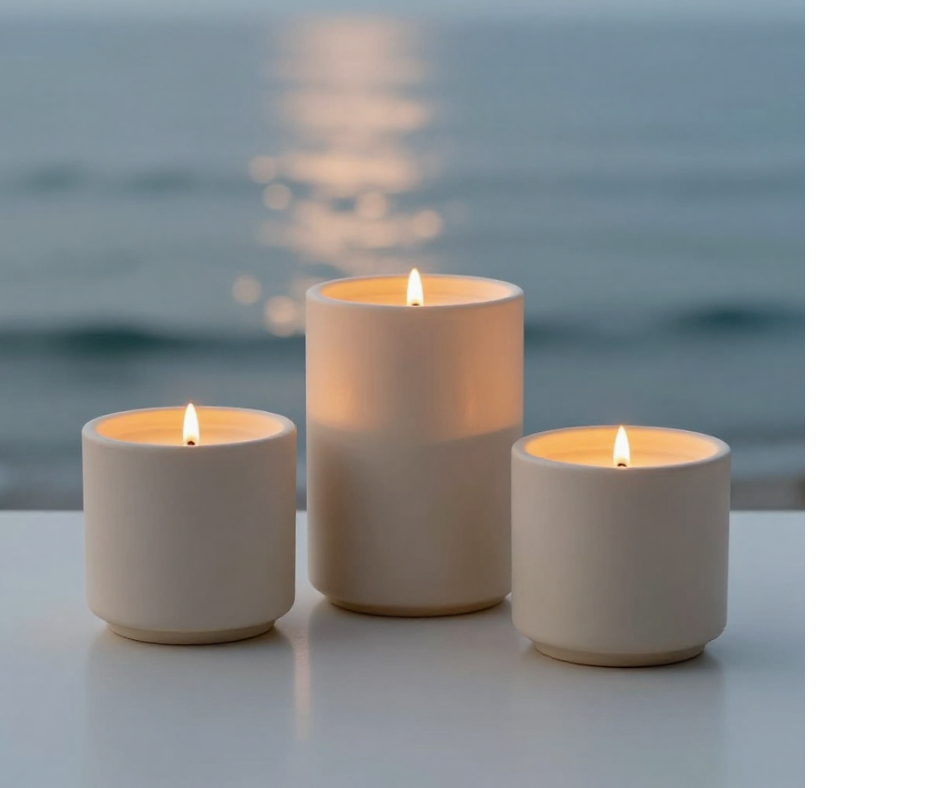
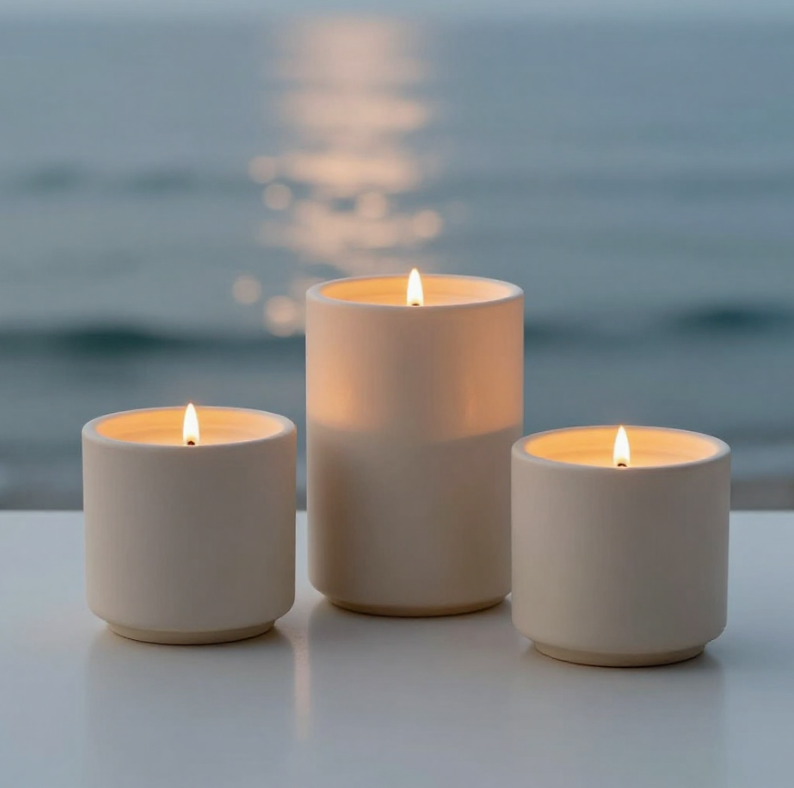
working on footer

diff --git a/src/styles.css b/src/styles.css
@@ -504,22 +504,17 @@ header {
 
   height: 100vh;
 
-  background-attachment: 50%;
-
-  width: 120vw;
-
   position: relative;
-
-  background-size: 100%;
+  max-width: 100vw;
+  background-size: cover;
 
   background-repeat: no-repeat;
 
   background-position: center;
 
   background-image:
-   
     linear-gradient(rgba(0, 0, 0, 0.1), rgba(0, 0, 0, 0), rgba(0, 0, 0, 0.1)),
-    url(../media/background3.png) ;
+    url(../media/background3.png);
 
   margin-bottom: 40vh;
 
@@ -609,7 +604,7 @@ h1 .hero {
 
   left: 50%;
 
-  transform: translate(-50%, 0%);
+  transform: translateX(-50%);
 
   background-color: transparent;
 
@@ -861,7 +856,7 @@ main {
 }
 
 .service-box:nth-child(6) .img-container-service {
-  background-image: url(../media/many\ legos.png) ;
+  background-image: url(../media/many\ legos.png);
 }
 
 .service-box p {
@@ -885,8 +880,6 @@ main {
   background-color: var(--ruby-red);
 
   padding: 10px 10px;
-
-
 
   font-size: 25px;
 
@@ -1335,13 +1328,13 @@ section.price {
 
   color: var(--minor-gray);
 
-  margin-bottom:-250px;
+  margin-bottom: -250px;
   margin-top: 50px;
 }
 
 section.price h3 {
   color: var(--white);
-  padding-top :40px;
+  padding-top: 40px;
 }
 
 section.price h3::after {
@@ -1449,7 +1442,6 @@ section.contact {
 }
 
 @media (min-width: 500px) {
-
 }
 
 @media (max-width: 700px) {
@@ -1462,8 +1454,6 @@ section.contact {
 
     margin: 30px 50px;
   }
-
-
 }
 
 @media (max-width: 700px) {
@@ -1570,8 +1560,6 @@ section.contact {
 
     margin: 10px 0px;
   }
-
-
 
   .codument .service-box {
     height: auto;

diff --git a/src/style.css b/src/style.css
@@ -31,11 +31,13 @@ ul {
 a {
   color: white;
   text-decoration-line: none;
+  transition: all 200ms ease-in-out;;
 }
 
 
-
-.fa {
+ 
+.fa-facebook{ background: #3B5998;
+  color: white;
   padding: 10px;
   font-size: 15px;
   width: 15px;
@@ -43,16 +45,21 @@ a {
   text-decoration: none;
   margin: 5px 2px;
   border-radius: 50%;
+
 }
 
-.fa:hover {
-    opacity: 0.7;
-}
-
-.fa-facebook {
+ .fa-facebook:hover{ 
   background: #3B5998;
   color: white;
-}
+  opacity: 0.7;
+  padding: 10px;
+  font-size: 15px;
+  width: 15px;
+  text-align: center;
+  text-decoration: none;
+  margin: 5px 2px;
+  border-radius: 50%;
+ }
 
  .fa-tiktok{ background: #3B5998;
   color: white;
@@ -77,8 +84,9 @@ a {
   text-decoration: none;
   margin: 5px 2px;
   border-radius: 50%;
+ }
 
-}
+
 
 .fa-ebay{ background: #3B5998;
   color: white;
@@ -149,3 +157,4 @@ a {
 
 
  }
+

diff --git a/index.html b/index.html
@@ -519,7 +519,9 @@ Perfect for creative kids, or as a unique party activity, these charming pieces 
         <div class="boxes">
           <div class="box">
          <ul>
-         <li> <a href="#" class="fa fa-facebook"></a> <a href=""> la la la </a> </li>
+      
+
+         <li> <a  class= "footerlink"  href="" ><i class="fa-brands fa-facebook"></i> la la la</a></li>
 
         </ul>
           </div>
